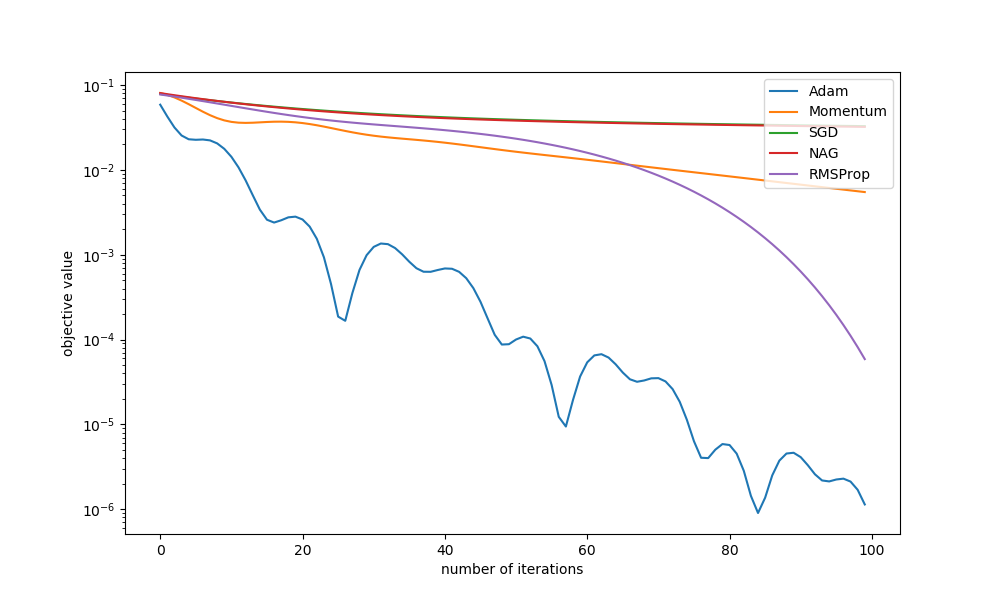
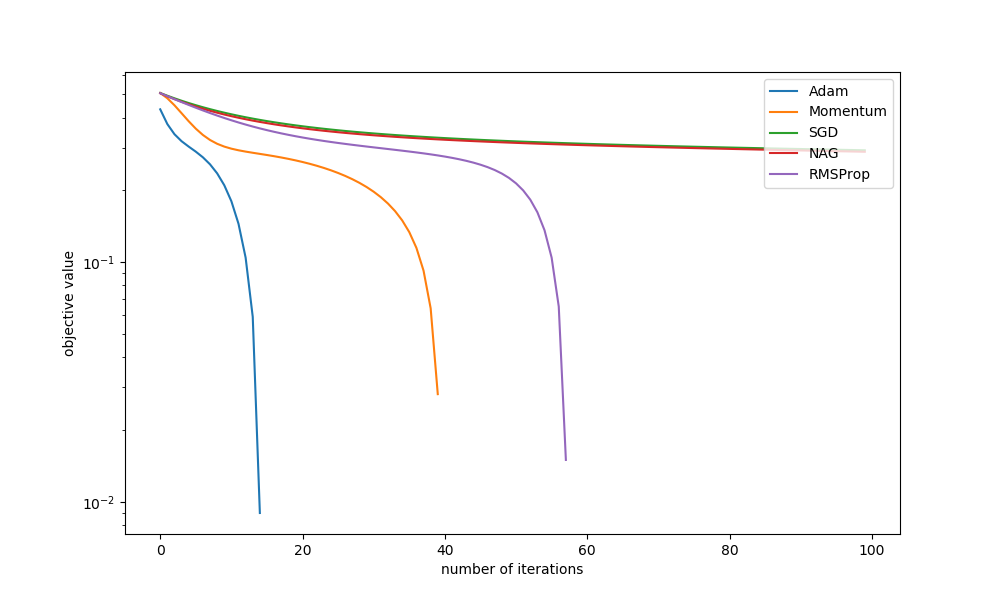
add non-convex problem

diff --git a/plot_sin.py b/plot_sin.py
@@ -15,6 +15,11 @@ import matplotlib.cm as cm
 import matplotlib.mlab as mlab
 import matplotlib
 
+
+def f_sin(x, y, a, b, c):
+  return np.sin(x + b) ** 5 + a * np.cos(b + y * x) * np.cos(c * x)
+
+
 def f_quad(X1, X2, W, Y):
   assert (Y.shape == (2,))
   Z = np.ndarray(shape=X1.shape, dtype=X1.dtype)
@@ -25,28 +30,28 @@ def f_quad(X1, X2, W, Y):
 
 
 def main():
-  optimizers = ['L2L', 'Adam', 'Momentum', 'SGD', 'NAG', 'RMSProp']
+  optimizers = ['Adam', 'Momentum', 'SGD', 'NAG', 'RMSProp']
 
-  problem_path = './problems/quadratic.npz'
-  npzfile = np.load(problem_path)
-  problems_w, problems_b = npzfile['arr_0'], npzfile['arr_1']
-  prob_num = len(problems_w)
+  problem_path = './problems/sin.npy'
+  problems = np.load(problem_path)
+  print(problems)
+
+  prob_num = len(problems)
   x = {}
   obj = {}
 
   for optimizer in optimizers:
     x[optimizer] = np.load(osp.join('./results', optimizer + '.npy'))
 
-  print('problem_w', problems_w)
-  print('problem_b', problems_b)
   for prob_idx in range(prob_num):
     fig = plt.figure(figsize=(10, 6))
+    a, b, c = problems[prob_idx]
     for optimizer in optimizers:
       obj[optimizer] = list(
-        map(lambda x: np.sum((problems_w[prob_idx].dot(x) - problems_b[prob_idx].squeeze()) ** 2),
-            x[optimizer][prob_idx]))
+        map(lambda x: f_sin(x[0], x[1], a, b, c), x[optimizer][prob_idx]))
       plt.plot(obj[optimizer], label=optimizer)
-      print('Plotting: problem {}, optimizer {}, loss {}, x {}'.format(prob_idx, optimizer, obj[optimizer][-1], x[optimizer][prob_idx][-1]))
+      print('Plotting: problem {}, optimizer {}, loss {}, x {}'.format(prob_idx, optimizer, obj[optimizer][-1],
+                                                                       x[optimizer][prob_idx][-1]))
     plt.legend(loc='upper right')
     plt.xlabel('number of iterations')
     plt.ylabel('objective value')
@@ -70,15 +75,11 @@ def main():
     # W = 0.5 * np.eye(2)
     # Y = 0.5 * np.ones(2)
 
-
-
-
   n = len(optimizers)
   for prob_idx in range(prob_num):
     fig = plt.figure(figsize=(12, 8))
     for i, optimizer in enumerate(optimizers):
-      W = problems_w[prob_idx]
-      Y = problems_b[prob_idx]
+      a, b, c = problems[prob_idx]
       minx = np.min(x[optimizer][prob_idx][:, 0])
       miny = np.min(x[optimizer][prob_idx][:, 1])
       maxx = np.max(x[optimizer][prob_idx][:, 0])
@@ -90,16 +91,17 @@ def main():
       x1 = np.linspace(t_min, t_max, num=50)
       x2 = np.linspace(t_min, t_max, num=50)
       X1, X2 = np.meshgrid(x1, x2)
-      Z = f_quad(X1, X2, W, Y.squeeze())
-      ax = fig.add_subplot(2, (n+1)/2, i+1)
-      ax.contour(X1, X2, Z, 20)
+      Z = f_sin(X1, X2, a, b, c)
+      ax = fig.add_subplot(2, (n + 1) / 2, i + 1)
+      cf = ax.contour(X1, X2, Z, 20)
+      fig.colorbar(cf, ax=ax)
       ax.set_aspect('equal')
       ax.axis([t_min, t_max, t_min, t_max])
       ax.set_title(optimizer)
       ax.scatter(x[optimizer][prob_idx][:, 0], x[optimizer][prob_idx][:, 1], s=5, edgecolors='r', facecolors='none',
-                  marker='o')
+                 marker='o')
       ax.plot(x[optimizer][prob_idx][:, 0], x[optimizer][prob_idx][:, 1], color='r')
-  #plt.colorbar()
+      # plt.colorbar()
       plt.savefig('./figs/contour_{}.png'.format(prob_idx))
 
 

diff --git a/util.py b/util.py
@@ -26,34 +26,23 @@ from six.moves import xrange
 
 import problems
 
-def run_epoch(sess, cost_op, x_op, ops, reset, num_unrolls):
+
+def run_epoch(sess, cost_op, ops, reset, num_unrolls):
   """Runs one optimization epoch."""
   start = timer()
   sess.run(reset)
-  x_value_list = []
   for _ in xrange(num_unrolls):
-    cost, x_value = sess.run([cost_op, x_op] + ops)[0:2]
-    x_value_list.append(x_value)
-  x_values = np.array(x_value_list)
-  # returns final cost after num_unrolls unrolls
-  return timer() - start, cost, x_values
+    cost = sess.run([cost_op] + ops)[0]
+  return timer() - start, cost
 
-#def run_epoch(sess, cost_op, ops, reset, num_unrolls):
-#  """Runs one optimization epoch."""
-#  start = timer()
-#  sess.run(reset)
-#  for _ in xrange(num_unrolls):
-#    cost = sess.run([cost_op] + ops)[0]
-#  return timer() - start, cost
 
-# check x_value dimension.
 def run_epoch_test(sess, cost_op, x_op, ops, reset, num_unrolls):
   """Runs one optimization epoch."""
   start = timer()
   sess.run(reset)
   x_value_list = []
   for _ in xrange(num_unrolls):
-    cost, x_value = sess.run([cost_op, x_op] + ops)[0:2]
+    cost, x_value, _ = sess.run([cost_op, x_op] + ops)
     x_value_list.append(x_value)
   x_values = np.array(x_value_list)
   return timer() - start, cost, x_values
@@ -67,7 +56,6 @@ def print_stats(header, total_error, total_time, n):
   print("Mean epoch time: {:.2f} s".format(total_time / n))
 
 
-# name: 'cw'
 def get_net_path(name, path):
   return None if path is None else os.path.join(path, name + ".l2l")
 
@@ -125,20 +113,18 @@ def get_config(problem_name, path=None, problem_path=None):
       "net_path": get_net_path("cw", path)
     }}
     net_assignments = None
-  elif problem_name == "quadratic-wav":
+  elif problem_name == "sin":
     if problem_path is not None:
-      npzfile = np.load(problem_path)
-      problems_w, problems_b = npzfile['arr_0'], npzfile['arr_1']
-      assert len(problems_w) == len(problems_b)
-      batch_size = len(problems_w)
-      problem = problems.quadratic(batch_size=batch_size, num_dims=2, problems_w=problems_w,
-                                   problems_b=problems_b)
+      problems_sin = np.load(problem_path)  # TODO
+
+      batch_size = len(problems_sin)
+      problem = problems.prob_sin(batch_size=batch_size, problem_param=problems_sin)
     else:
-      problem = problems.quadratic(batch_size=1, num_dims=2)
-    net_config = {"cw-wav": {
-        "net": "CoordinateWiseWaveNet",
-        "net_options": {"num_layers": 8}, 
-        "net_path": get_net_path("cw-wav", path)
+      problem = problems.prob_sin(batch_size=128)
+    net_config = {"cw": {
+      "net": "CoordinateWiseDeepLSTM",
+      "net_options": {"layers": (20, 20)},
+      "net_path": get_net_path("cw", path)
     }}
     net_assignments = None
   elif problem_name == "mnist":

diff --git a/problems.py b/problems.py
@@ -114,6 +114,66 @@ def quadratic(batch_size=128, num_dims=10, stddev=0.01, dtype=tf.float32, proble
   return build
 
 
+def prob_sin(batch_size=128, num_dims=2, stddev=0.01, dtype=tf.float32, problem_param=None):
+  # def quadratic(batch_size=1, num_dims=10, stddev=0.01, dtype=tf.float32):
+  """f(x) = np.sin(x + b) ** 5 + a * np.cos(b + y * x) * np.cos(c * x)"""
+
+  def build():
+    """Builds loss graph."""
+
+    # Trainable variable.
+    # x = tf.get_variable(
+    #   "x",
+    #   shape=[batch_size, num_dims],
+    #   dtype=dtype,
+    #   initializer=tf.random_normal_initializer(stddev=stddev))
+
+    x = tf.get_variable(
+      "x",
+      #shape=[batch_size, num_dims],
+      dtype=dtype,
+      initializer=tf.constant(np.ones(shape=(batch_size, 2), dtype=np.float32) * 0.1))
+
+    # Non-trainable variables.
+    if problem_param is None:
+      a = tf.get_variable("a",
+                          shape=[batch_size, 1],
+                          dtype=dtype,
+                          initializer=tf.random_uniform_initializer(),
+                          trainable=False)
+      b = tf.get_variable("b",
+                          shape=[batch_size, 1],
+                          dtype=dtype,
+                          initializer=tf.random_uniform_initializer(),
+                          trainable=False)
+      c = tf.get_variable("c",
+                          shape=[batch_size, 1],
+                          dtype=dtype,
+                          initializer=tf.random_uniform_initializer(),
+                          trainable=False)
+    else:
+      a = tf.get_variable("a",
+                          shape=[batch_size, 1],
+                          dtype=dtype,
+                          initializer=tf.constant_initializer(problem_param[0]),
+                          trainable=False)
+      b = tf.get_variable("b",
+                          shape=[batch_size, 1],
+                          dtype=dtype,
+                          initializer=tf.constant_initializer(problem_param[1]),
+                          trainable=False)
+      c = tf.get_variable("c",
+                          shape=[batch_size, 1],
+                          dtype=dtype,
+                          initializer=tf.constant_initializer(problem_param[2]),
+                          trainable=False)
+
+    f_sin = tf.squeeze(tf.pow(tf.sin(x[:, 0] + b), 5) + a * tf.cos(b + x[:, 1] * x[:, 0]) * tf.cos(c * x[:, 0]))
+    return tf.reduce_mean(f_sin)
+
+  return build
+
+
 def ensemble(problems, weights=None):
   """Ensemble of problems.
 

diff --git a/generate_problems_sin.py b/generate_problems_sin.py
@@ -1,0 +1,10 @@
+import numpy as np
+
+params= []
+for i in range(5):
+  a = np.random.random()
+  b = np.random.random()
+  c = np.random.random()
+  param = [a,b,c]
+  params.append(param)
+np.save('./problems/sin', params)
